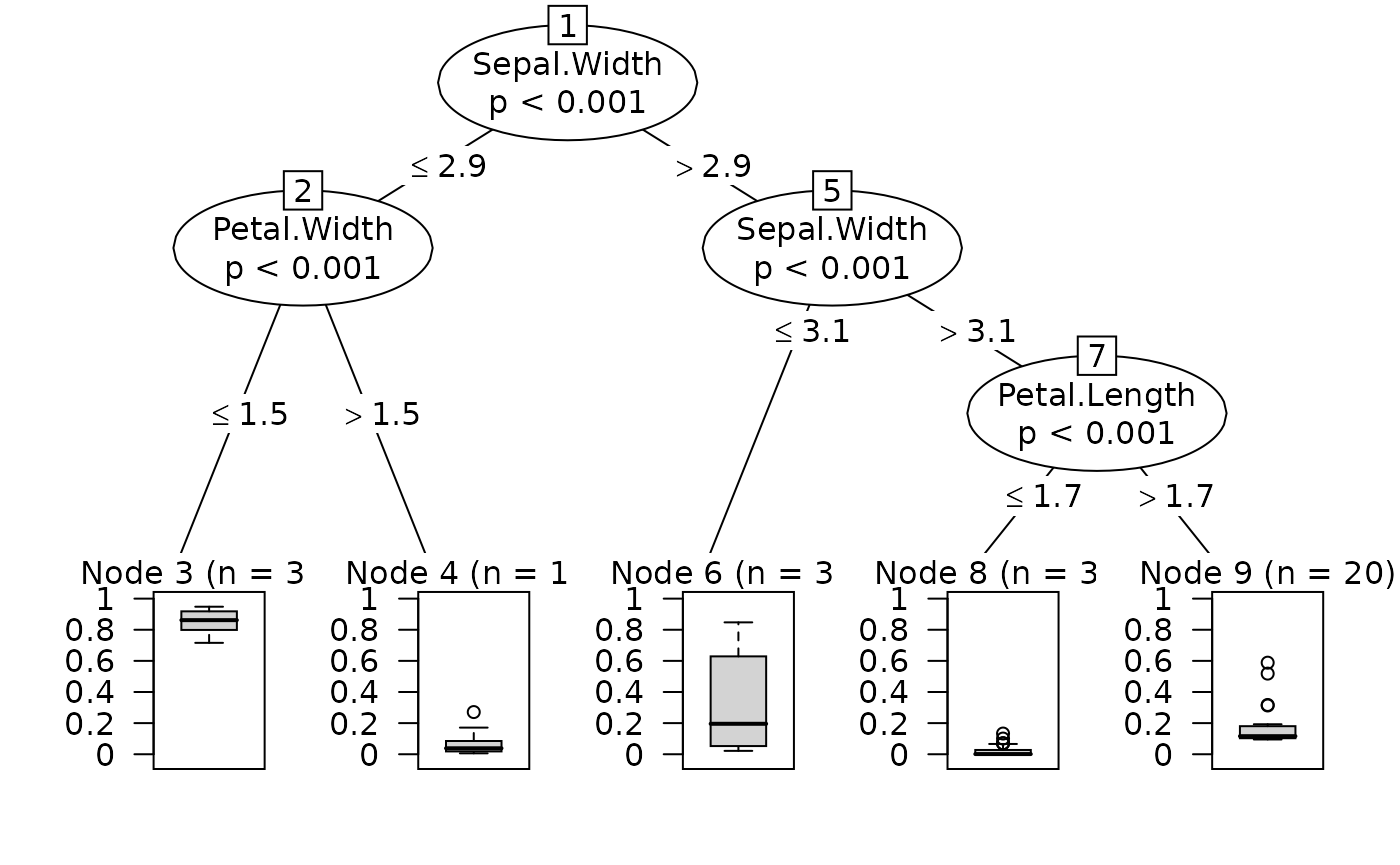
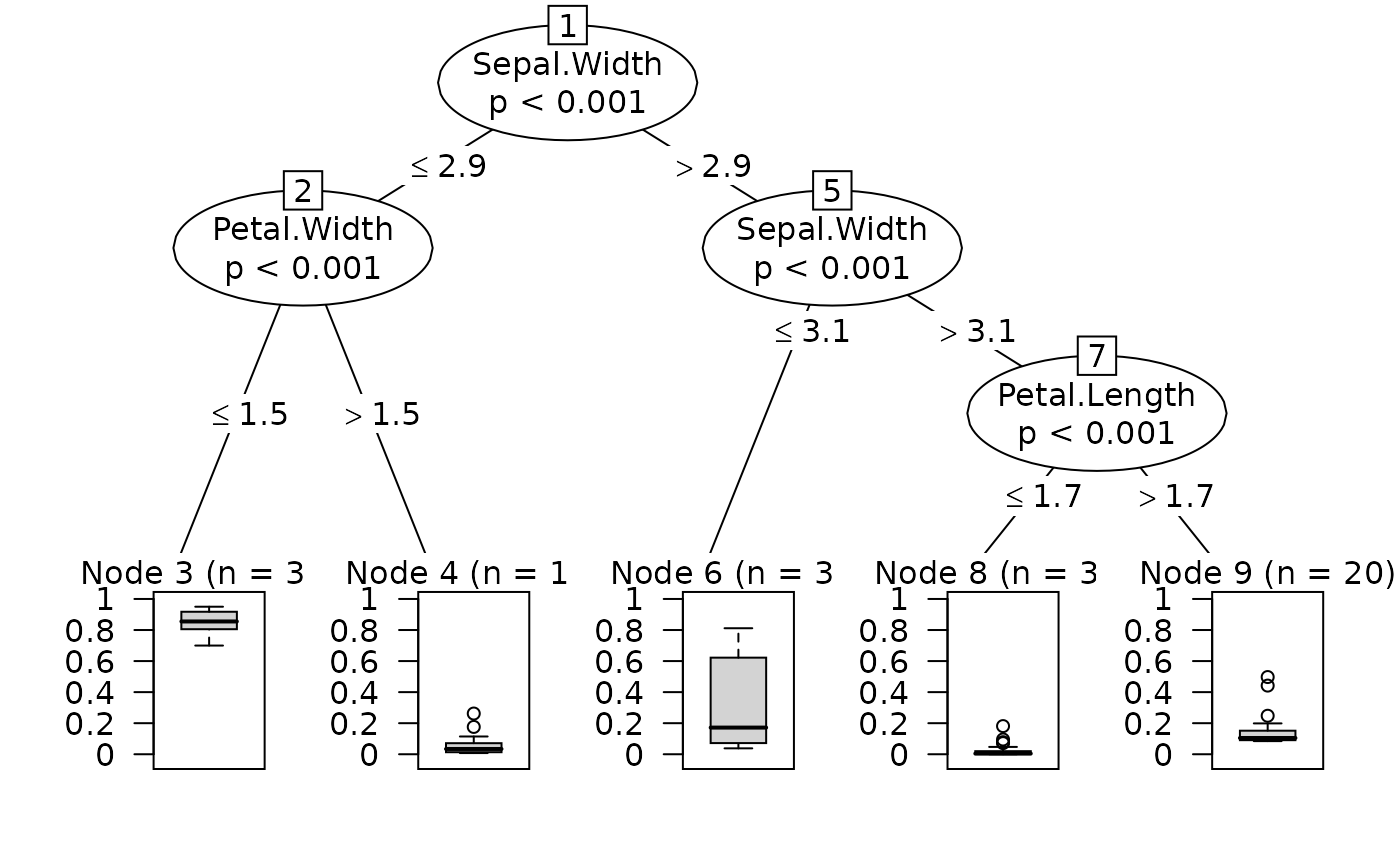
docs : update website

diff --git a/docs/articles/moreparty.html b/docs/articles/moreparty.html
@@ -93,27 +93,10 @@
 <div class="sourceCode" id="cb2"><pre class="downlit sourceCode r">
 <code class="sourceCode R"><span class="fu"><a href="https://rdrr.io/r/base/Random.html">set.seed</a></span><span class="op">(</span><span class="fl">123</span><span class="op">)</span>
 
-<span class="kw"><a href="https://rdrr.io/r/base/library.html">library</a></span><span class="op">(</span><span class="va">moreparty</span><span class="op">)</span></code></pre></div>
-<pre><code>## Le chargement a nécessité le package : party</code></pre>
-<pre><code>## Le chargement a nécessité le package : grid</code></pre>
-<pre><code>## Le chargement a nécessité le package : mvtnorm</code></pre>
-<pre><code>## Le chargement a nécessité le package : modeltools</code></pre>
-<pre><code>## Le chargement a nécessité le package : stats4</code></pre>
-<pre><code>## Le chargement a nécessité le package : strucchange</code></pre>
-<pre><code>## Le chargement a nécessité le package : zoo</code></pre>
-<pre><code>## 
-## Attachement du package : 'zoo'</code></pre>
-<pre><code>## The following objects are masked from 'package:base':
-## 
-##     as.Date, as.Date.numeric</code></pre>
-<pre><code>## Le chargement a nécessité le package : sandwich</code></pre>
-<div class="sourceCode" id="cb13"><pre class="downlit sourceCode r">
-<code class="sourceCode R"><span class="kw"><a href="https://rdrr.io/r/base/library.html">library</a></span><span class="op">(</span><span class="va">doParallel</span><span class="op">)</span></code></pre></div>
-<pre><code>## Le chargement a nécessité le package : foreach</code></pre>
-<pre><code>## Le chargement a nécessité le package : iterators</code></pre>
-<pre><code>## Le chargement a nécessité le package : parallel</code></pre>
-<div class="sourceCode" id="cb17"><pre class="downlit sourceCode r">
-<code class="sourceCode R"><span class="fu"><a href="https://rdrr.io/pkg/doParallel/man/registerDoParallel.html">registerDoParallel</a></span><span class="op">(</span>cores<span class="op">=</span><span class="fl">2</span><span class="op">)</span>
+<span class="kw"><a href="https://rdrr.io/r/base/library.html">library</a></span><span class="op">(</span><span class="va">moreparty</span><span class="op">)</span>
+<span class="kw"><a href="https://rdrr.io/r/base/library.html">library</a></span><span class="op">(</span><span class="va">doParallel</span><span class="op">)</span>
+
+<span class="fu"><a href="https://rdrr.io/pkg/doParallel/man/registerDoParallel.html">registerDoParallel</a></span><span class="op">(</span>cores<span class="op">=</span><span class="fl">2</span><span class="op">)</span>
 <span class="va">iris.cf</span> <span class="op">=</span> <span class="fu"><a href="../reference/fastcforest.html">fastcforest</a></span><span class="op">(</span><span class="va">Species</span><span class="op">~</span><span class="va">.</span>, data<span class="op">=</span><span class="va">iris2</span>, parallel<span class="op">=</span><span class="cn">TRUE</span><span class="op">)</span>
 <span class="fu"><a href="https://rdrr.io/pkg/doParallel/man/registerDoParallel.html">stopImplicitCluster</a></span><span class="op">(</span><span class="op">)</span></code></pre></div>
 <hr>
@@ -121,13 +104,13 @@
 <h3 class="hasAnchor">
 <a href="#variable-importance" class="anchor"></a>variable importance</h3>
 <p>We may now compute the variable importances.</p>
-<div class="sourceCode" id="cb18"><pre class="downlit sourceCode r">
+<div class="sourceCode" id="cb3"><pre class="downlit sourceCode r">
 <code class="sourceCode R"><span class="fu"><a href="https://rdrr.io/pkg/doParallel/man/registerDoParallel.html">registerDoParallel</a></span><span class="op">(</span>cores<span class="op">=</span><span class="fl">2</span><span class="op">)</span>
 <span class="va">vi</span> <span class="op">=</span> <span class="fu"><a href="../reference/fastvarImp.html">fastvarImp</a></span><span class="op">(</span><span class="va">iris.cf</span>, measure<span class="op">=</span><span class="st">'ACC'</span>, parallel<span class="op">=</span><span class="cn">TRUE</span><span class="op">)</span>
 <span class="fu"><a href="https://rdrr.io/pkg/doParallel/man/registerDoParallel.html">stopImplicitCluster</a></span><span class="op">(</span><span class="op">)</span>
 <span class="fu"><a href="https://rdrr.io/r/base/rev.html">rev</a></span><span class="op">(</span><span class="fu"><a href="https://rdrr.io/r/base/sort.html">sort</a></span><span class="op">(</span><span class="va">vi</span><span class="op">)</span><span class="op">)</span></code></pre></div>
 <pre><code>##  Petal.Width  Sepal.Width Petal.Length Sepal.Length 
-##   0.18636364   0.14356364   0.07200000   0.01541818</code></pre>
+##   0.18261818   0.14829091   0.06185455   0.01767273</code></pre>
 <p>Petal width and sepal width seem notably more important than the other two variables.</p>
 <hr>
 </div>
@@ -135,11 +118,11 @@
 <h3 class="hasAnchor">
 <a href="#surrogate-trees" class="anchor"></a>surrogate trees</h3>
 <p>A surrogate tree is a simple tree that tries to approximate a more complex (and less interpretable) model, such as random forests.</p>
-<div class="sourceCode" id="cb20"><pre class="downlit sourceCode r">
+<div class="sourceCode" id="cb5"><pre class="downlit sourceCode r">
 <code class="sourceCode R"><span class="va">surro</span> <span class="op">=</span> <span class="fu"><a href="../reference/SurrogateTree.html">SurrogateTree</a></span><span class="op">(</span><span class="va">iris.cf</span><span class="op">)</span>
 <span class="va">surro</span><span class="op">$</span><span class="va">r.squared</span></code></pre></div>
-<pre><code>## [1] 0.7945984</code></pre>
-<div class="sourceCode" id="cb22"><pre class="downlit sourceCode r">
+<pre><code>## [1] 0.8216963</code></pre>
+<div class="sourceCode" id="cb7"><pre class="downlit sourceCode r">
 <code class="sourceCode R"><span class="fu"><a href="https://rdrr.io/pkg/pROC/man/plot.roc.html">plot</a></span><span class="op">(</span><span class="va">surro</span><span class="op">$</span><span class="va">tree</span><span class="op">)</span></code></pre></div>
 <p><img src="moreparty_files/figure-html/unnamed-chunk-5-1.png" width="700"></p>
 <p>This surrogate tree approximates our forest’s predictions, but in a far from perfect way (R2 = 0.82), so it should probably be interpreted cautiously.</p>
@@ -149,12 +132,12 @@
 <h3 class="hasAnchor">
 <a href="#prototypes" class="anchor"></a>prototypes</h3>
 <p>Prototypes are ‘representative’ cases of a group of data points, here versicolor vs non versicolor species, according the proximity matrix derived from the forest.</p>
-<div class="sourceCode" id="cb23"><pre class="downlit sourceCode r">
+<div class="sourceCode" id="cb8"><pre class="downlit sourceCode r">
 <code class="sourceCode R"><span class="va">prox</span> <span class="op">=</span> <span class="fu"><a href="https://rdrr.io/pkg/party/man/cforest.html">proximity</a></span><span class="op">(</span><span class="va">iris.cf</span><span class="op">)</span>
 <span class="fu"><a href="../reference/Prototypes.html">Prototypes</a></span><span class="op">(</span><span class="va">iris2</span><span class="op">$</span><span class="va">Species</span>, <span class="va">iris2</span><span class="op">[</span>,<span class="fl">1</span><span class="op">:</span><span class="fl">4</span><span class="op">]</span>, <span class="va">prox</span>, nProto<span class="op">=</span><span class="fl">3</span><span class="op">)</span></code></pre></div>
 <pre><code>## $`FALSE`
 ##      Sepal.Length Sepal.Width Petal.Length Petal.Width
-## [1,] "6.75"       "3.25"      "5.7"        "2.3"      
+## [1,] "6.35"       "2.8"       "5.45"       "1.9"      
 ## [2,] "5.1"        "3.55"      "1.45"       "0.2"      
 ## [3,] "5.1"        "3.55"      "1.5"        "0.2"      
 ## 

diff --git a/docs/index.html b/docs/index.html
@@ -71,12 +71,15 @@
 
       </header><div class="row">
   <div class="contents col-md-9">
-<div id="moreparty" class="section level1">
+<div id="moreparty-" class="section level1">
 <div class="page-header"><h1 class="hasAnchor">
-<a href="#moreparty" class="anchor"></a>moreparty</h1></div>
+<a href="#moreparty-" class="anchor"></a><strong>moreparty</strong> <img src="reference/figures/moreparty.png" height="140px" width="120px" alt="" align="right">
+</h1></div>
 <div id="tools-for-conditional-inference-random-forests" class="section level2">
 <h2 class="hasAnchor">
 <a href="#tools-for-conditional-inference-random-forests" class="anchor"></a>Tools for conditional inference random forests</h2>
+
+<p><!-- badges: end --></p>
 <p>This package aims at complementing the <a href="https://cran.r-project.org/package=party"><code>party</code></a> package with parallelization and interpretation tools.</p>
 <p>It provides functions for :</p>
 <ul>
@@ -94,7 +97,7 @@
 </div>
 <div id="installation" class="section level2">
 <h2 class="hasAnchor">
-<a href="#installation" class="anchor"></a>installation</h2>
+<a href="#installation" class="anchor"></a>Installation</h2>
 <p>Execute the following code within <code>R</code>:</p>
 <div class="sourceCode" id="cb1"><pre class="downlit sourceCode r">
 <code class="sourceCode R"><span class="kw">if</span> <span class="op">(</span><span class="op">!</span><span class="kw"><a href="https://rdrr.io/r/base/library.html">require</a></span><span class="op">(</span><span class="va"><a href="https://devtools.r-lib.org/">devtools</a></span><span class="op">)</span><span class="op">)</span><span class="op">{</span>
@@ -105,7 +108,7 @@
 </div>
 <div id="references" class="section level2">
 <h2 class="hasAnchor">
-<a href="#references" class="anchor"></a>references</h2>
+<a href="#references" class="anchor"></a>References</h2>
 <p>Altmann A., Toloşi L., Sander O., and Lengauer T. “Permutation importance: a corrected feature importance measure”. <em>Bioinformatics</em>, 26(10):1340-1347, 2010.</p>
 <p>Apley, D. W., Zhu J. “Visualizing the Effects of Predictor Variables in Black Box Supervised Learning Models”. arXiv:1612.08468v2, 2019.</p>
 <p>Gregorutti B., Michel B., and Saint Pierre P. “Correlation and variable importance in random forests”. arXiv:1310.5726, 2017.</p>
@@ -140,7 +143,16 @@
 </ul>
 </div>
 
-  </div>
+  <div class="dev-status">
+<h2>Dev status</h2>
+<ul class="list-unstyled">
+<li><a href="https://github.com/nicolas-robette/moreparty/actions"><img src="https://github.com/nicolas-robette/moreparty/workflows/R-CMD-check/badge.svg" alt="R build status"></a></li>
+<li><a href="https://cran.r-project.org/package=moreparty"><img src="https://www.r-pkg.org/badges/version/moreparty?color=blue"></a></li>
+<li><a href="https://cran.r-project.org/package=moreparty"><img src="http://cranlogs.r-pkg.org/badges/last-month/moreparty?color=orange"></a></li>
+<li><a href="https://www.codefactor.io/repository/github/nicolas-robette/moreparty"><img src="https://www.codefactor.io/repository/github/nicolas-robette/moreparty/badge" alt="CodeFactor"></a></li>
+</ul>
+</div>
+</div>
 </div>
 
 

diff --git a/docs/articles/Titanic_example.html b/docs/articles/Titanic_example.html
@@ -689,8 +689,8 @@ $Yes
 <span class="fu"><a href="https://rdrr.io/pkg/doParallel/man/registerDoParallel.html">registerDoParallel</a></span><span class="op">(</span>cores<span class="op">=</span><span class="fl">2</span><span class="op">)</span>
 <span class="fu"><a href="../reference/fastvarImpAUC.html">fastvarImpAUC</a></span><span class="op">(</span><span class="va">foret</span><span class="op">)</span>
 <span class="fu"><a href="https://rdrr.io/pkg/doParallel/man/registerDoParallel.html">stopImplicitCluster</a></span><span class="op">(</span><span class="op">)</span></code></pre></div>
-<pre><code>        Sex      Pclass         Age    Embarked 
-0.236939648 0.074901788 0.029629402 0.009813821 </code></pre>
+<pre><code>       Sex     Pclass        Age   Embarked 
+0.23524608 0.07358493 0.02974304 0.01101097 </code></pre>
 <p>Parallelization is also an option for many of the functions we have used here.</p>
 </div>
   </div>

diff --git a/README.md b/README.md
@@ -1,19 +1,16 @@
-**moreparty**
-=============
+# **moreparty** <img src="man/figures/moreparty.png" height=140px width=120px alt="" align="right" />
 
+## Tools for conditional inference random forests
 
-Tools for conditional inference random forests
-----------------------------------------------
-
-<!-- badges: start -->
+  <!-- badges: start -->
   [![R build status](https://github.com/nicolas-robette/moreparty/workflows/R-CMD-check/badge.svg)](https://github.com/nicolas-robette/moreparty/actions)
   [![](https://www.r-pkg.org/badges/version/moreparty?color=blue)](https://cran.r-project.org/package=moreparty)
   [![](http://cranlogs.r-pkg.org/badges/last-month/moreparty?color=orange)](https://cran.r-project.org/package=moreparty)
-    <!-- badges: end -->
+  [![CodeFactor](https://www.codefactor.io/repository/github/nicolas-robette/moreparty/badge)](https://www.codefactor.io/repository/github/nicolas-robette/moreparty)
 
-This package aims at complementing the
-[`party`](https://cran.r-project.org/package=party) package with
-parallelization and interpretation tools.
+  <!-- badges: end -->
+
+This package aims at complementing the [`party`](https://cran.r-project.org/package=party) package with parallelization and interpretation tools.
 
 It provides functions for :
 
@@ -31,8 +28,7 @@ It provides functions for :
 -   dot plots for variable importance and effects
 
 
-Installation
-------------
+## Installation
 
 Execute the following code within `R`:
 
@@ -44,8 +40,7 @@ if (!require(devtools)){
 install_github("nicolas-robette/moreparty")
 ```
 
-References
-----------
+## References
 
 Altmann A., Toloşi L., Sander O., and Lengauer T. “Permutation importance: a corrected feature importance measure”. *Bioinformatics*, 26(10):1340-1347, 2010.
 
